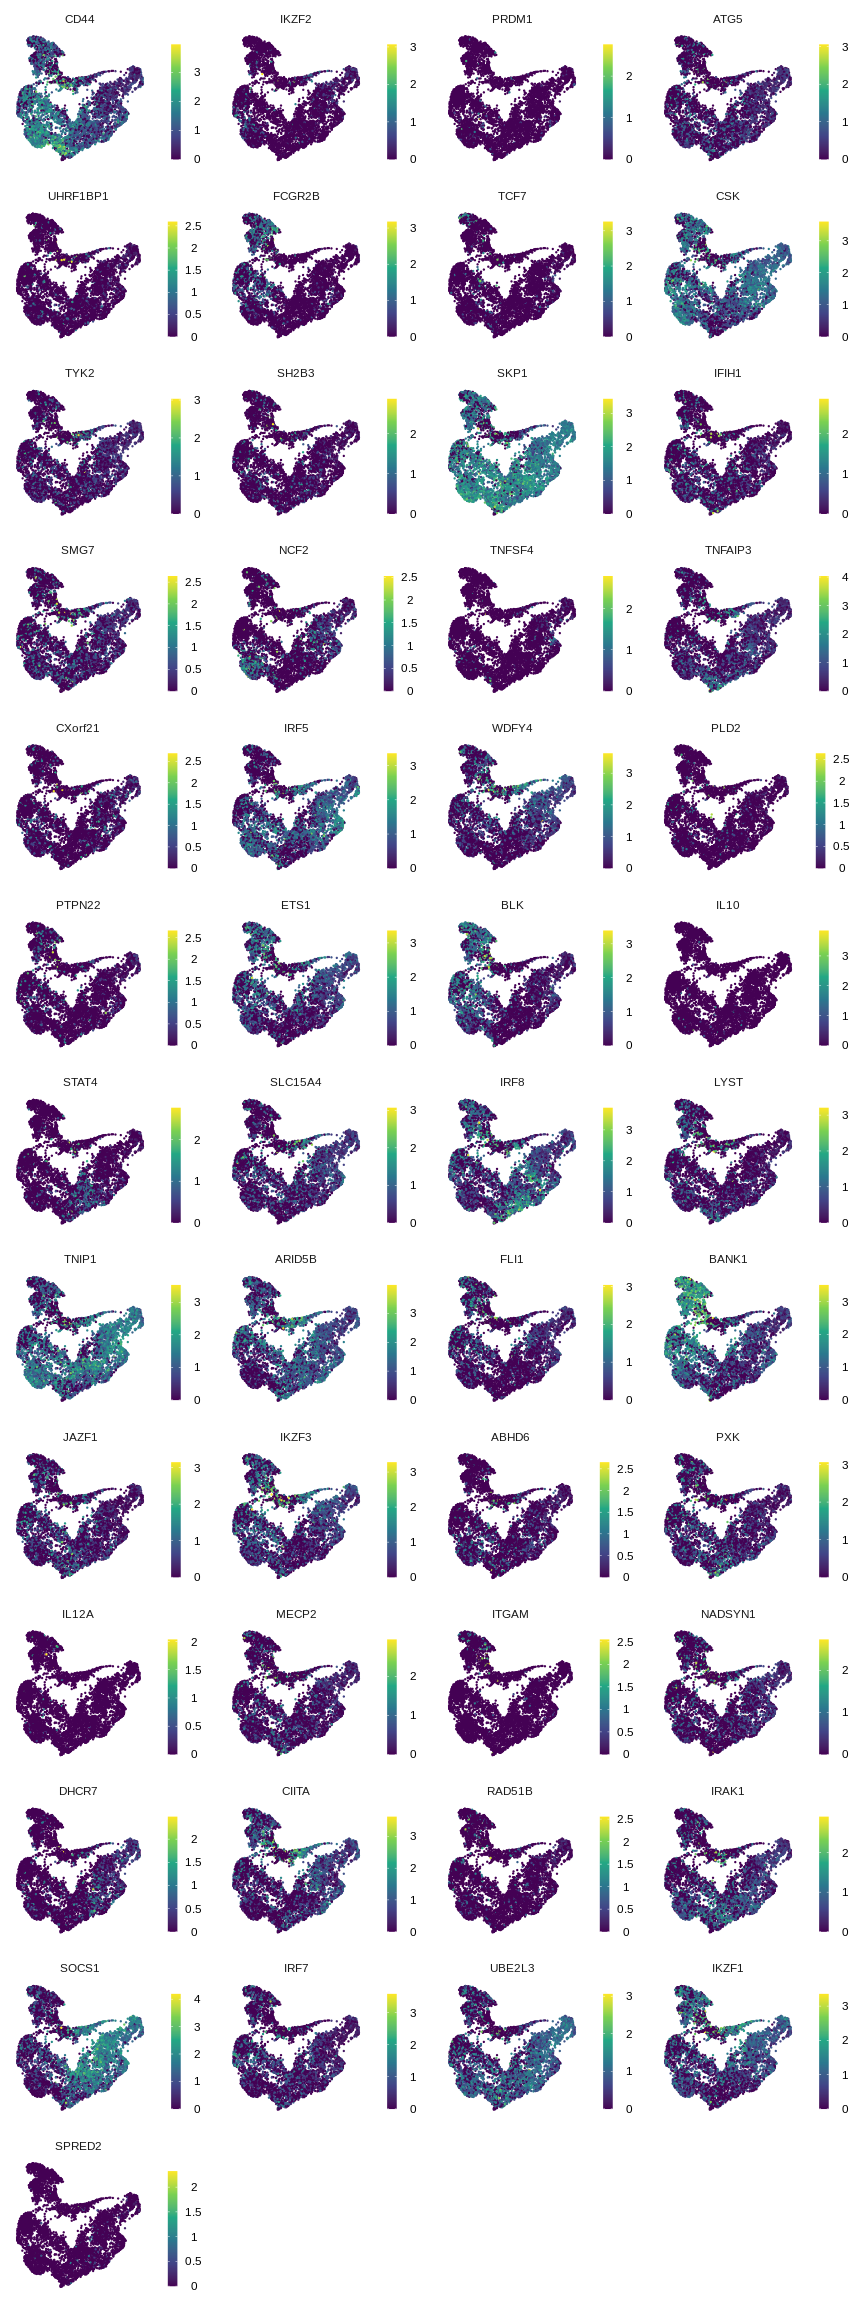
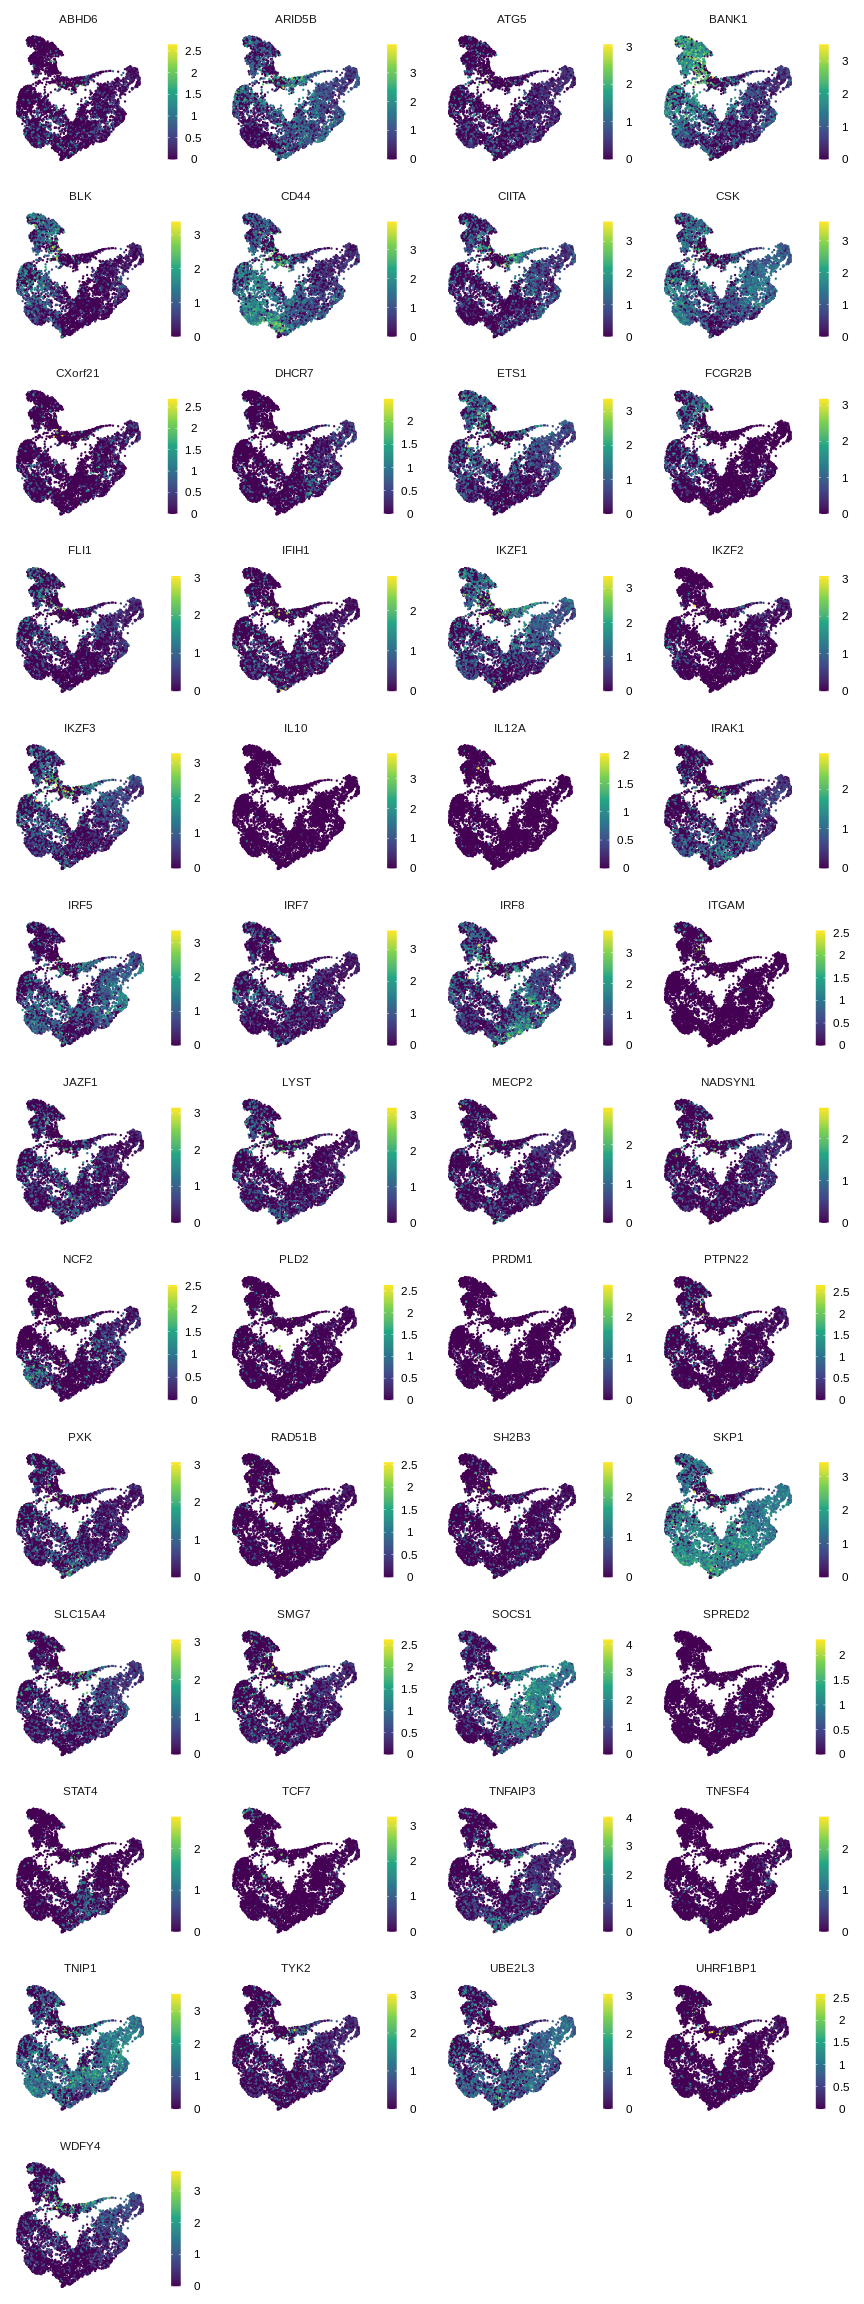
sort SLE genes plot

diff --git a/bcell_scrna/README.md b/bcell_scrna/README.md
@@ -183,7 +183,7 @@ str(bcells)
     #   ..@ commands    :List of 5
     #   .. ..$ NormalizeData.RNA       :Formal class 'SeuratCommand' [package "SeuratObject"] with 5 slots
     #   .. .. .. ..@ name       : chr "NormalizeData.RNA"
-    #   .. .. .. ..@ time.stamp : POSIXct[1:1], format: "2022-03-14 17:24:28"
+    #   .. .. .. ..@ time.stamp : POSIXct[1:1], format: "2022-03-14 17:50:09"
     #   .. .. .. ..@ assay.used : chr "RNA"
     #   .. .. .. ..@ call.string: chr "NormalizeData(bcells, normalization.method = \"LogNormalize\")"
     #   .. .. .. ..@ params     :List of 5
@@ -194,7 +194,7 @@ str(bcells)
     #   .. .. .. .. ..$ verbose             : logi TRUE
     #   .. ..$ FindVariableFeatures.RNA:Formal class 'SeuratCommand' [package "SeuratObject"] with 5 slots
     #   .. .. .. ..@ name       : chr "FindVariableFeatures.RNA"
-    #   .. .. .. ..@ time.stamp : POSIXct[1:1], format: "2022-03-14 17:24:33"
+    #   .. .. .. ..@ time.stamp : POSIXct[1:1], format: "2022-03-14 17:50:14"
     #   .. .. .. ..@ assay.used : chr "RNA"
     #   .. .. .. ..@ call.string: chr "FindVariableFeatures(bcells, selection.method = \"mean.var.plot\")"
     #   .. .. .. ..@ params     :List of 12
@@ -212,7 +212,7 @@ str(bcells)
     #   .. .. .. .. ..$ verbose            : logi TRUE
     #   .. ..$ ScaleData.RNA           :Formal class 'SeuratCommand' [package "SeuratObject"] with 5 slots
     #   .. .. .. ..@ name       : chr "ScaleData.RNA"
-    #   .. .. .. ..@ time.stamp : POSIXct[1:1], format: "2022-03-14 17:24:35"
+    #   .. .. .. ..@ time.stamp : POSIXct[1:1], format: "2022-03-14 17:50:15"
     #   .. .. .. ..@ assay.used : chr "RNA"
     #   .. .. .. ..@ call.string: chr "ScaleData(bcells, features = VariableFeatures(bcells))"
     #   .. .. .. ..@ params     :List of 10
@@ -228,7 +228,7 @@ str(bcells)
     #   .. .. .. .. ..$ verbose           : logi TRUE
     #   .. ..$ NormalizeData.HTO       :Formal class 'SeuratCommand' [package "SeuratObject"] with 5 slots
     #   .. .. .. ..@ name       : chr "NormalizeData.HTO"
-    #   .. .. .. ..@ time.stamp : POSIXct[1:1], format: "2022-03-14 17:24:35"
+    #   .. .. .. ..@ time.stamp : POSIXct[1:1], format: "2022-03-14 17:50:16"
     #   .. .. .. ..@ assay.used : chr "HTO"
     #   .. .. .. ..@ call.string: chr "NormalizeData(bcells, assay = \"HTO\", normalization.method = \"CLR\")"
     #   .. .. .. ..@ params     :List of 5
@@ -239,7 +239,7 @@ str(bcells)
     #   .. .. .. .. ..$ verbose             : logi TRUE
     #   .. ..$ NormalizeData.ADT       :Formal class 'SeuratCommand' [package "SeuratObject"] with 5 slots
     #   .. .. .. ..@ name       : chr "NormalizeData.ADT"
-    #   .. .. .. ..@ time.stamp : POSIXct[1:1], format: "2022-03-14 17:24:36"
+    #   .. .. .. ..@ time.stamp : POSIXct[1:1], format: "2022-03-14 17:50:16"
     #   .. .. .. ..@ assay.used : chr "ADT"
     #   .. .. .. ..@ call.string: chr [1:2] "NormalizeData(bcells, assay = \"ADT\", normalization.method = \"CLR\", " "    margin = 2)"
     #   .. .. .. ..@ params     :List of 5
@@ -657,7 +657,7 @@ sle_genes_quant <- bcells_singlet@assays$RNA@data %>%
 sle_genes_plot_list <- umap_df %>%
     select(barcode, UMAP_1, UMAP_2) %>%
     left_join(sle_genes_quant, by = "barcode") %>%
-    group_split(gene_id) %>%
+    split(.$gene_name) %>%
     map(~ggplot(data = ., aes(UMAP_1, UMAP_2, color = gene_exp)) +
             geom_point(size = .2) +
             scale_color_viridis_c(labels = function(x) str_pad(x, 3),
@@ -673,6 +673,8 @@ plot_grid(plotlist = sle_genes_plot_list, ncol = 4)
 ```
 
 ![](README_files/figure-gfm/unnamed-chunk-16-1.png)<!-- -->
+
+## TLR genes
 
 ``` r
 bcells_markers <- 
